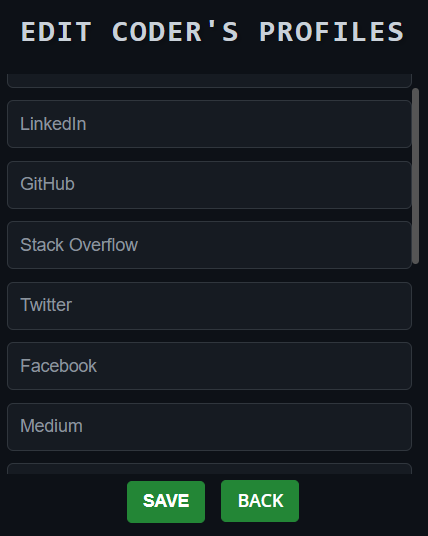
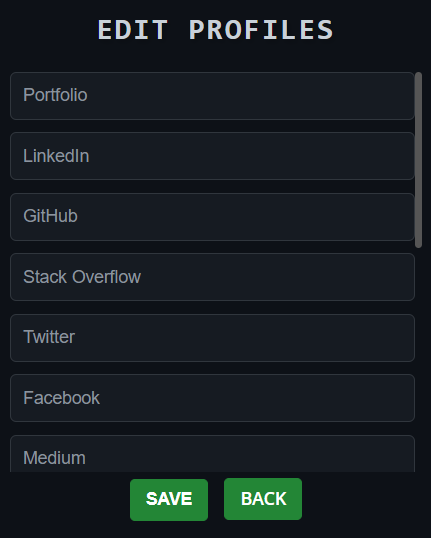
minor changes

diff --git a/edit.html b/edit.html
@@ -104,7 +104,7 @@
     </style>
 </head>
 <body>
-    <h1>Edit Coder's Profiles</h1>
+    <h1>Edit Profiles</h1>
     <div id="cont">
         <input class="form-control" id="portfolio" type="text" placeholder="Portfolio">
         <input class="form-control" id="linkedin" type="text" placeholder="LinkedIn">

diff --git a/popup.html b/popup.html
@@ -130,7 +130,7 @@
 </head>
 <body>
     <div class="modal-header">
-        <h2>Coder's Profiles</h2>
+        <h2>ProfileHUb</h2>
         <p>One Place to find all Profiles for a Programmer</p>
     </div>
     <div class="modal-icons">
